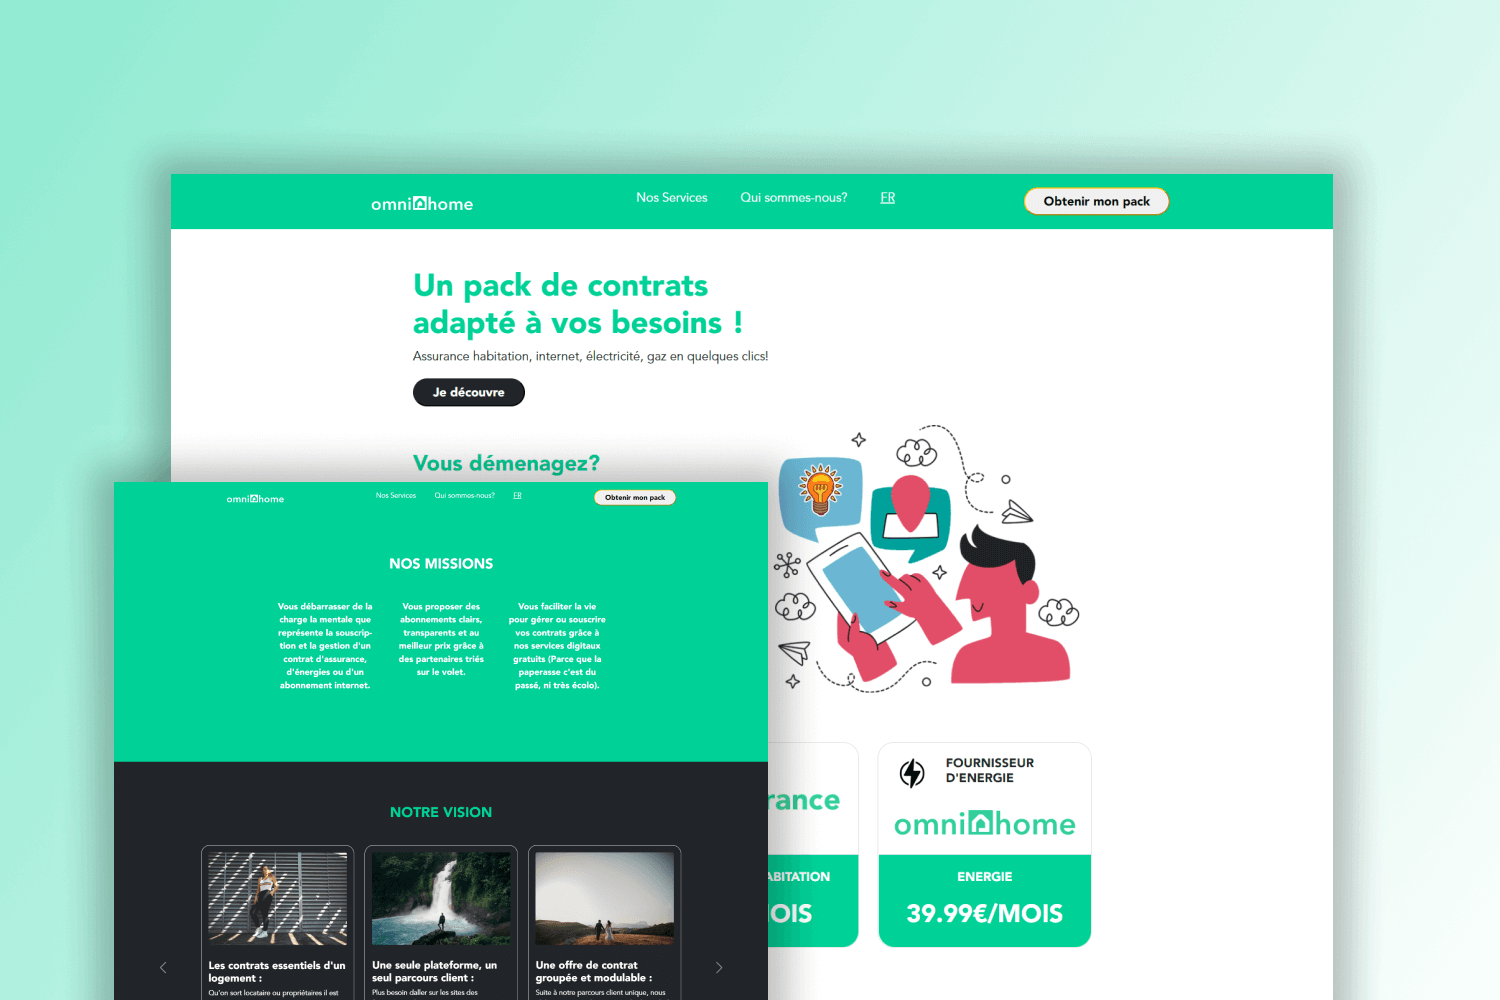
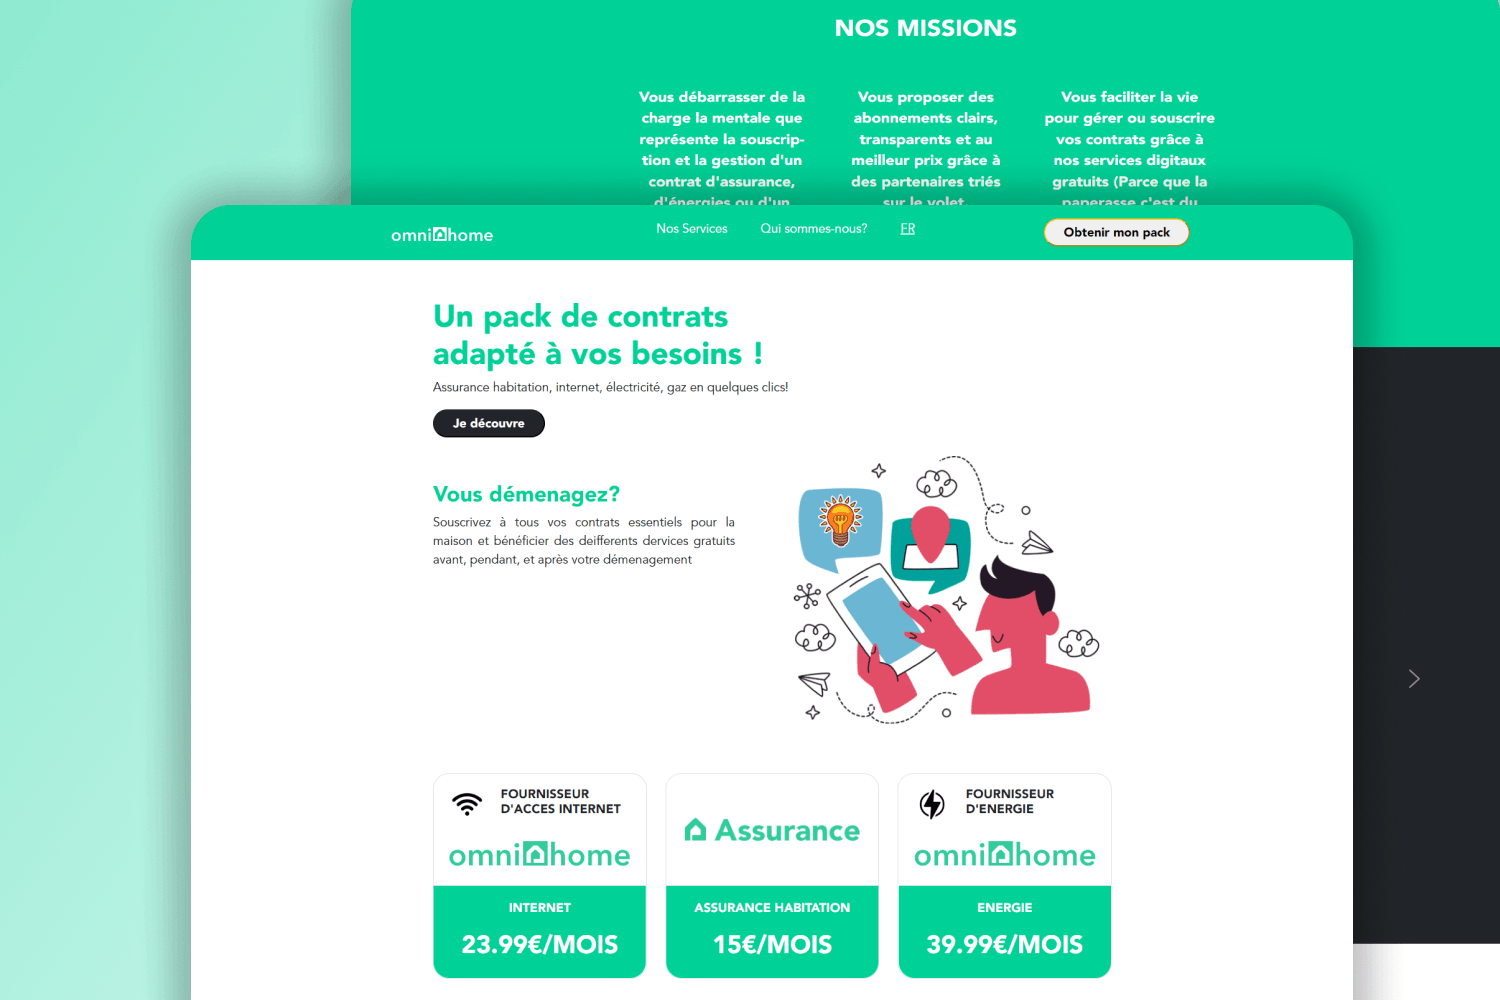
Display developer role and project contributions on cards

diff --git a/src/data/projects-data.js b/src/data/projects-data.js
@@ -5,6 +5,7 @@ export const projectsData = [
     date: '2024-07',
     startDate: '2024-02',
     endDate: '2024-07',
+    role: 'Full-Stack Developer',
     tags: ['Symfony', 'Next.js', 'Flutter', 'Full-Stack', 'Mobile', 'Internship'],
     description: 'Full-stack web and mobile solution promoting sustainable transportation. Final year internship project combining Symfony 7 backend, Next.js 6 frontend, and Flutter mobile app with seamless UX and best practices.',
     modalContent: {
@@ -31,6 +32,7 @@ export const projectsData = [
     id: 'devops-jenkins',
     title: 'DevOps - Jenkins Pipeline',
     date: '2023-12',
+    role: 'DevOps Engineer',
     tags: ['DevOps', 'Jenkins', 'Docker', 'SonarQube', 'CI/CD', 'University'],
     description: 'University project automating the analysis and dockerization of SpringBoot applications using Jenkins Pipeline. Implemented build automation, code analysis with SonarQube, Docker image creation, and DockerHub deployment.',
     modalContent: {
@@ -53,6 +55,7 @@ export const projectsData = [
     id: 'power-bi',
     title: 'Museum Of Modern Art - Power BI Dashboard',
     date: '2023-12',
+    role: 'Data Analyst',
     tags: ['Power BI', 'Data Analysis', 'DAX', 'University'],
     description: 'University project analyzing The Museum of Modern Art\'s collection. Implemented data preparation, DAX calculations, interactive visualizations, and navigation features for comprehensive artwork analysis.',
     modalContent: {
@@ -77,6 +80,7 @@ export const projectsData = [
     date: '2023-08',
     startDate: '2022-06',
     endDate: '2023-08',
+    role: 'Frontend Developer',
     tags: ['Nuxt 3', 'Node.js', 'pnpm', 'Frontend', 'Performance', 'Internship'],
     description: 'Summer internship 2022-23 project. Developed the official website for Perpetual Code company using Nuxt 3 and pnpm. Focused on UI/UX design and performance optimization for an exceptional user experience.',
     modalContent: {
@@ -98,6 +102,7 @@ export const projectsData = [
     id: 'ai-models',
     title: 'AI Models & Deep Learning',
     date: '2023-07',
+    role: 'AI/ML Student',
     tags: ['AI', 'Deep Learning', 'CNN', 'NLP', 'Python', 'Certification'],
     description: 'Certified AI program during summer 2022-23. Comprehensive exploration of machine learning models including Deep Learning, CNN for ASL prediction, and NLP techniques. Hands-on experience with cutting-edge AI technologies.',
     modalContent: {
@@ -120,6 +125,7 @@ export const projectsData = [
     id: 'event-manager',
     title: 'Event Manager',
     date: '2022-12',
+    role: 'Full-Stack Developer',
     tags: ['React', 'Node.js', 'MongoDB', 'MERN', 'Authentication', 'Full-Stack', 'University'],
     description: 'MERN Stack event management application built in December 2022. Features user authentication and comprehensive event management capabilities. A fun and practical project demonstrating full-stack development skills.',
     modalContent: {
@@ -144,6 +150,7 @@ export const projectsData = [
     date: '2022-08',
     startDate: '2021-06',
     endDate: '2022-08',
+    role: 'Full-Stack Developer',
     tags: ['Angular', 'MongoDB', 'Node.js', 'E-commerce', 'Community', 'Internship'],
     description: 'Summer internship 2021-22 project. Full-stack web platform for selling vegan food and building vegan communities. Built with Angular frontend and MongoDB backend, promoting sustainable lifestyle choices.',
     modalContent: {
@@ -166,15 +173,25 @@ export const projectsData = [
     id: 'sobflous',
     title: 'Sobflous Wheel of Fortune Solution',
     date: '2021-11',
+    role: 'Full-Stack Developer & Team Coordinator',
     tags: ['Hackathon', 'Full-Stack', 'Gamification', 'Winner'],
     description: 'Award-winning project from a 4-day hackathon in 2021 organized by JET for junior enterprises in Tunisia. Team of 4 (2 developers, 1 sales, 1 designer) developed an interactive wheel of fortune solution for Sobflous company. Won first prize.',
+    contributions: [
+      'Collaborated with developers on business logic and core functionality',
+      'Ensured CSS implementation was flawless and matched original mockups',
+      'Designed and implemented additional pages not covered in initial mockups',
+      'Co-presented solution with sales team, delivering synchronized pitch',
+      'Managed technical and non-technical Q&A during jury evaluation',
+      'Coordinated cross-functional team efforts to ensure cohesive delivery'
+    ],
     modalContent: {
       subtitle: '🏆 First Prize Winner - JET Hackathon 2021 (4 days)',
       points: [
         { label: 'Challenge', text: 'Develop and pitch a gamification solution for Sobflous company' },
         { label: 'Team', text: 'Collaborated with 2 developers, 1 sales, 1 designer' },
         { label: 'Solution', text: 'Interactive wheel of fortune with engaging user experience' },
-        { label: 'My Role', text: 'Full-stack development and technical implementation' },
+        { label: 'Role', text: 'Full-Stack Developer & Team Coordinator - managed team alignment and execution' },
+        { label: 'My Contributions', text: 'Full-stack development, UI/UX design, presentation deck creation, co-presented solution, handled jury Q&A' },
         { label: 'Achievement', text: 'Won first prize among all junior enterprises in Tunisia' }
       ]
     },
@@ -189,6 +206,7 @@ export const projectsData = [
     id: 'optimaje',
     title: 'Optimaje - Junior Enterprise Website',
     date: '2022-06',
+    role: 'Project Lead & Full-Stack Developer',
     tags: ['WordPress', 'PHP', 'MySQL', 'Web Design', 'Leadership'],
     description: 'Renovated the official website of Optima Junior Enterprise (FST\'s junior enterprise) in 2022 as Head of Projects Department. Showcases their expertise in web development, mobile development, and web marketing services. The platform highlights their commitment to client satisfaction, quality, and competitive pricing.',
     modalContent: {
@@ -211,6 +229,7 @@ export const projectsData = [
     id: 'lunivers-du-decor',
     title: 'L\'Univers Du Décor Website',
     date: '2023-06',
+    role: 'Web Developer',
     tags: ['WordPress', 'PHP', 'MySQL', 'E-commerce', 'Web Design'],
     description: 'Professional website for L\'univers du décor, a specialized interior decoration and furnishing company in Tunisia. Showcases their 25+ years of experience in custom decoration solutions, pergolas, false ceilings, and floor coverings.',
     modalContent: {
@@ -233,6 +252,7 @@ export const projectsData = [
     id: 'prostore',
     title: 'ProStore Website',
     date: '2022-09',
+    role: 'Web Developer',
     tags: ['WordPress', 'PHP', 'MySQL', 'E-commerce', 'Product Showcase'],
     description: 'Website for ProStore, a manufacturer of custom interior blinds and solar protection solutions in Tunisia and Africa. Features product catalog including Zebra, Boat, Japanese, and Vertical blinds with detailed specifications.',
     modalContent: {
@@ -255,6 +275,7 @@ export const projectsData = [
     id: 'geoplus',
     title: 'GeoPlus Website',
     date: '2022-12',
+    role: 'Web Developer',
     tags: ['WordPress', 'CSS', 'Web Design', 'Corporate'],
     description: 'Website for GeoPlus, an applied geophysics expertise company in Tunisia. Highlights their scientific approach, HSE compliance, and collaboration with academic institutions for geophysical solutions.',
     modalContent: {
@@ -277,6 +298,7 @@ export const projectsData = [
     id: 'cciboost',
     title: 'CCIBoost Website',
     date: '2023-03',
+    role: 'Web Developer',
     tags: ['WordPress', 'PHP', 'MySQL', 'Web Design', 'Corporate', 'Data Platform'],
     description: 'Professional website for CCI Boost, a platform connecting creative and cultural enterprises with investors and business partners. Features The Index (27 indicators for business analysis), matchmaking services, and academy resources. Supports 122+ enterprises across 60 countries with data-driven insights.',
     modalContent: {
@@ -298,6 +320,7 @@ export const projectsData = [
     id: 'omnihome',
     title: 'OmniHome Website',
     date: '2022-05',
+    role: 'Frontend Developer',
     tags: ['HTML', 'CSS', 'JavaScript', 'Bootstrap', 'Frontend', 'Corporate'],
     description: 'Vanilla HTML/CSS/JavaScript website for OmniHome, a smart home solutions company. Built with Bootstrap for responsive design and modern web standards.',
     modalContent: {

diff --git a/styles/components/modals.css b/styles/components/modals.css
@@ -39,6 +39,29 @@
     position: relative;
     box-shadow: var(--shadow-2xl);
     animation: slideUp 0.3s ease;
+    max-height: 90vh;
+    overflow-y: scroll;
+    scrollbar-width: thin;
+    scrollbar-color: var(--primary) transparent;
+    box-sizing: border-box;
+}
+
+.work-modal-content::-webkit-scrollbar {
+    width: 8px;
+}
+
+.work-modal-content::-webkit-scrollbar-track {
+    background: transparent;
+    margin-right: 2px;
+}
+
+.work-modal-content::-webkit-scrollbar-thumb {
+    background: var(--primary);
+    border-radius: 3px;
+}
+
+.work-modal-content::-webkit-scrollbar-thumb:hover {
+    background: var(--primary-light);
 }
 
 @keyframes slideUp {
@@ -112,3 +135,41 @@
   margin-top: var(--spacing-md);
   justify-content: center;
 }
+
+/* Modal Contributions Section */
+.modal-contributions {
+  margin-top: var(--spacing-lg);
+  padding-top: var(--spacing-lg);
+  border-top: 2px solid var(--border-color);
+}
+
+.modal-contributions h3 {
+  font-size: var(--font-size-lg);
+  color: var(--primary);
+  margin-bottom: var(--spacing-md);
+  font-weight: 600;
+}
+
+.contributions-list {
+  list-style: none;
+  margin: 0;
+  padding: 0;
+}
+
+.contributions-list li {
+  color: var(--text-light);
+  padding: 0.6rem 0;
+  padding-left: 1.5rem;
+  position: relative;
+  line-height: 1.6;
+}
+
+.contributions-list li::before {
+  content: '✓';
+  position: absolute;
+  left: 0;
+  color: var(--primary);
+  font-weight: bold;
+  font-size: 1.1em;
+}
+

diff --git a/src/utils/works-filter.js b/src/utils/works-filter.js
@@ -99,6 +99,16 @@ export function initWorksFilter() {
               <li><strong>${point.label}:</strong> ${point.text}</li>
             `).join('')}
           </ul>
+          ${project.contributions ? `
+            <div class="modal-contributions">
+              <h3>My Contributions</h3>
+              <ul class="contributions-list">
+                ${project.contributions.map(contribution => `
+                  <li>${contribution}</li>
+                `).join('')}
+              </ul>
+            </div>
+          ` : ''}
           <div class="modal-tags">
             ${project.tags.map(tag => `<span class="tag">${tag}</span>`).join('')}
           </div>
@@ -235,6 +245,7 @@ export function initWorksFilter() {
         </div>
         <div class="work-content">
           <h3 class="work-title">${project.title}</h3>
+          <p class="work-role">${project.role}</p>
           <p class="work-date">${new Date(project.date).toLocaleDateString('en-US', { year: 'numeric', month: 'short' })}</p>
           <div class="work-tags">
             ${project.tags.slice(0, 3).map(tag => `<span class="tag">${tag}</span>`).join('')}

diff --git a/styles/sections/works.css b/styles/sections/works.css
@@ -193,6 +193,13 @@
     margin-bottom: 0.25rem;
 }
 
+.work-role {
+    font-size: var(--font-size-xs);
+    color: var(--primary);
+    font-weight: 600;
+    margin-bottom: 0.25rem;
+}
+
 .work-date {
     font-size: var(--font-size-xs);
     color: var(--text-light);
